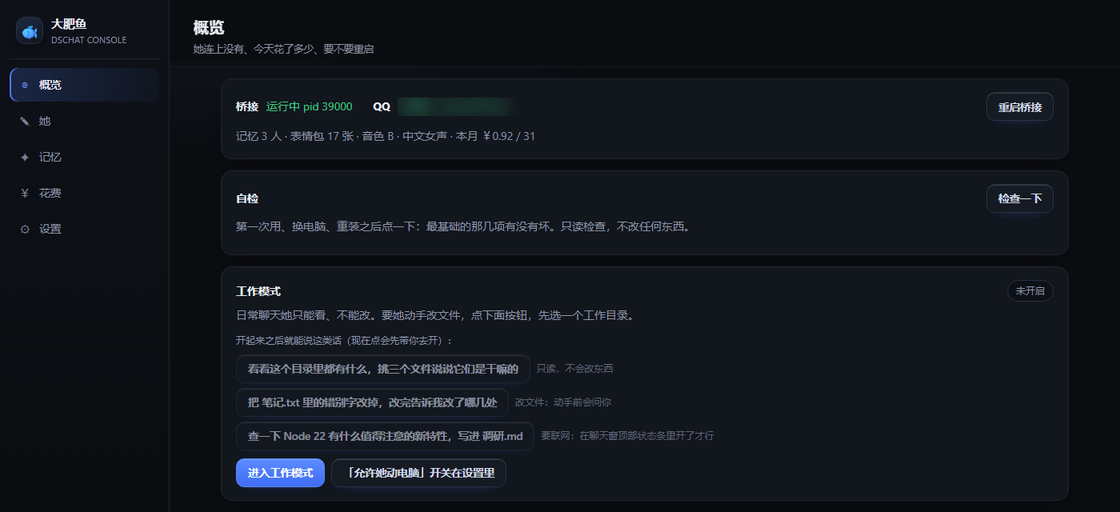
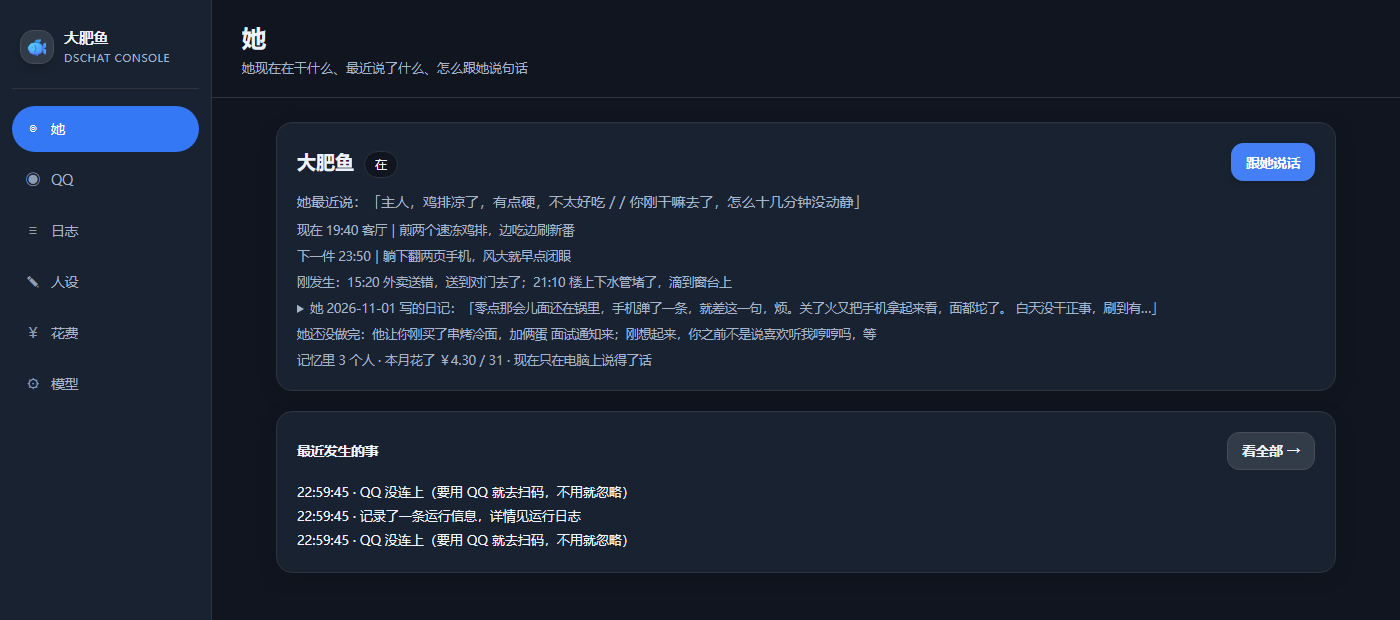
docs: 换掉过期的两张截图（控制台六页版 / 新的第一次见面）
(通过 Git Data API 同步；本机 github.com:443 不通)

diff --git a/README.md b/README.md
@@ -1,6 +1,9 @@
 # DSChatBot · 住在你电脑里的数字人
 
-> 她有自己的一天：有作息、有记性、会困、会主动找你说话；她在 QQ 或浏览器里都能跟你聊，记住的是"你"，不是"某个入口里的你"。
+**一个住在你电脑里的数字角色：有作息、有记性、会主动开口，还会给自己拍照。**
+
+> 她有自己的日程和状态：早上会赖床，深夜真的会困。她记得你说过的事，也会主动找你说话。
+> 电脑窗口、手机浏览器、QQ —— 三个入口，同一个人同一份记忆。
 > *A digital person living on your Windows PC — with her own schedule, memory and moods. Talk to her on QQ, or in a browser.*
 
 Windows · 本地数据 · 你自己的模型 Key · [MIT](LICENSE)
